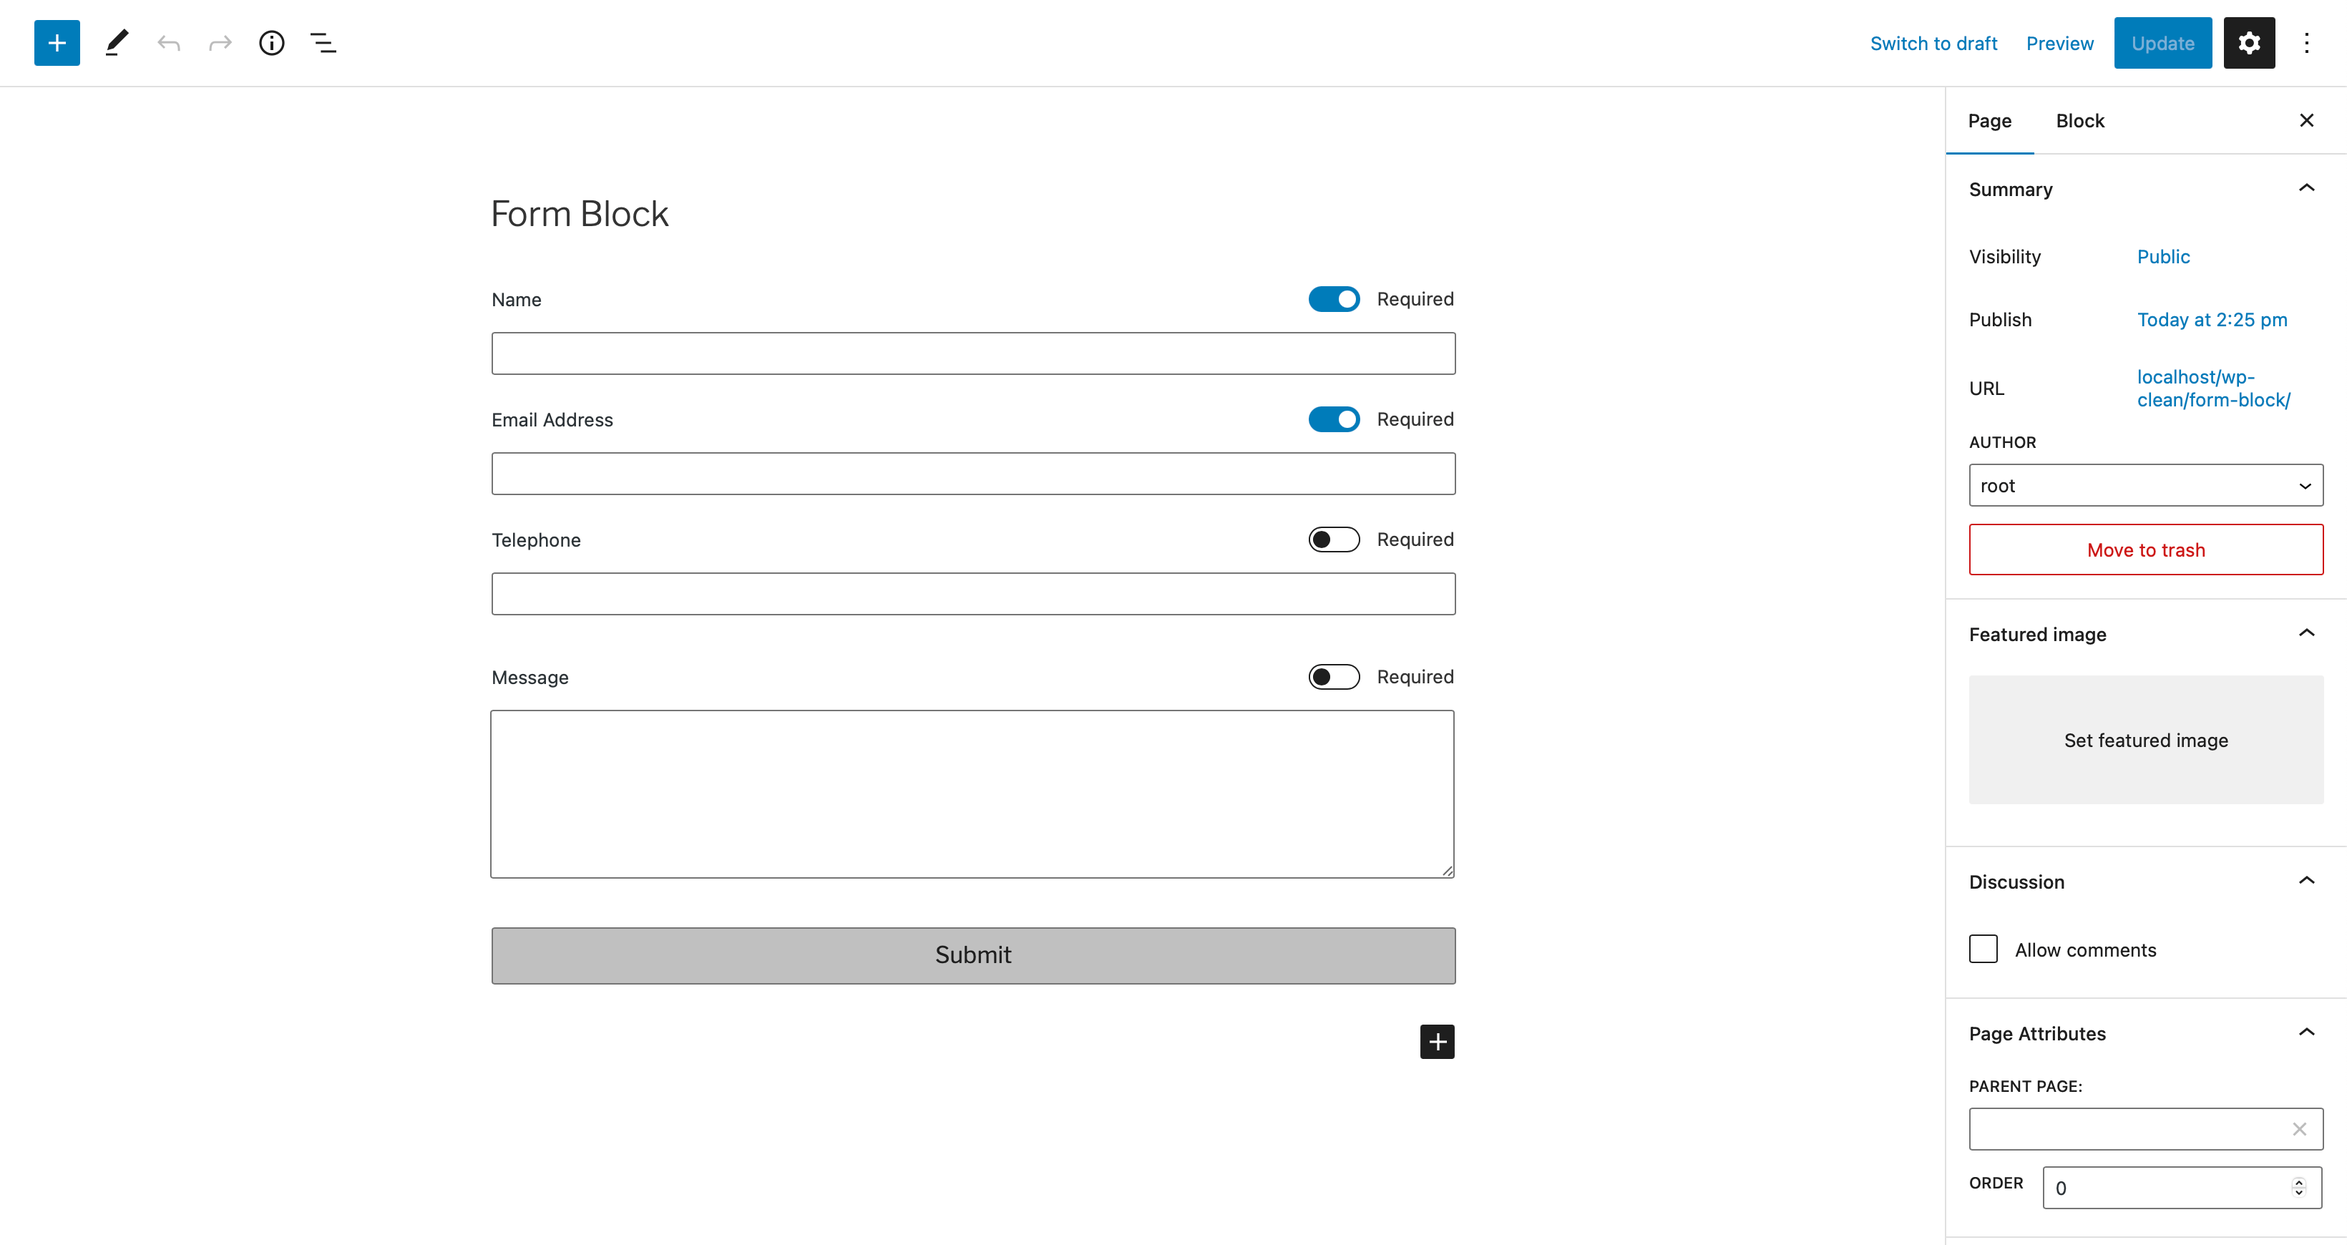
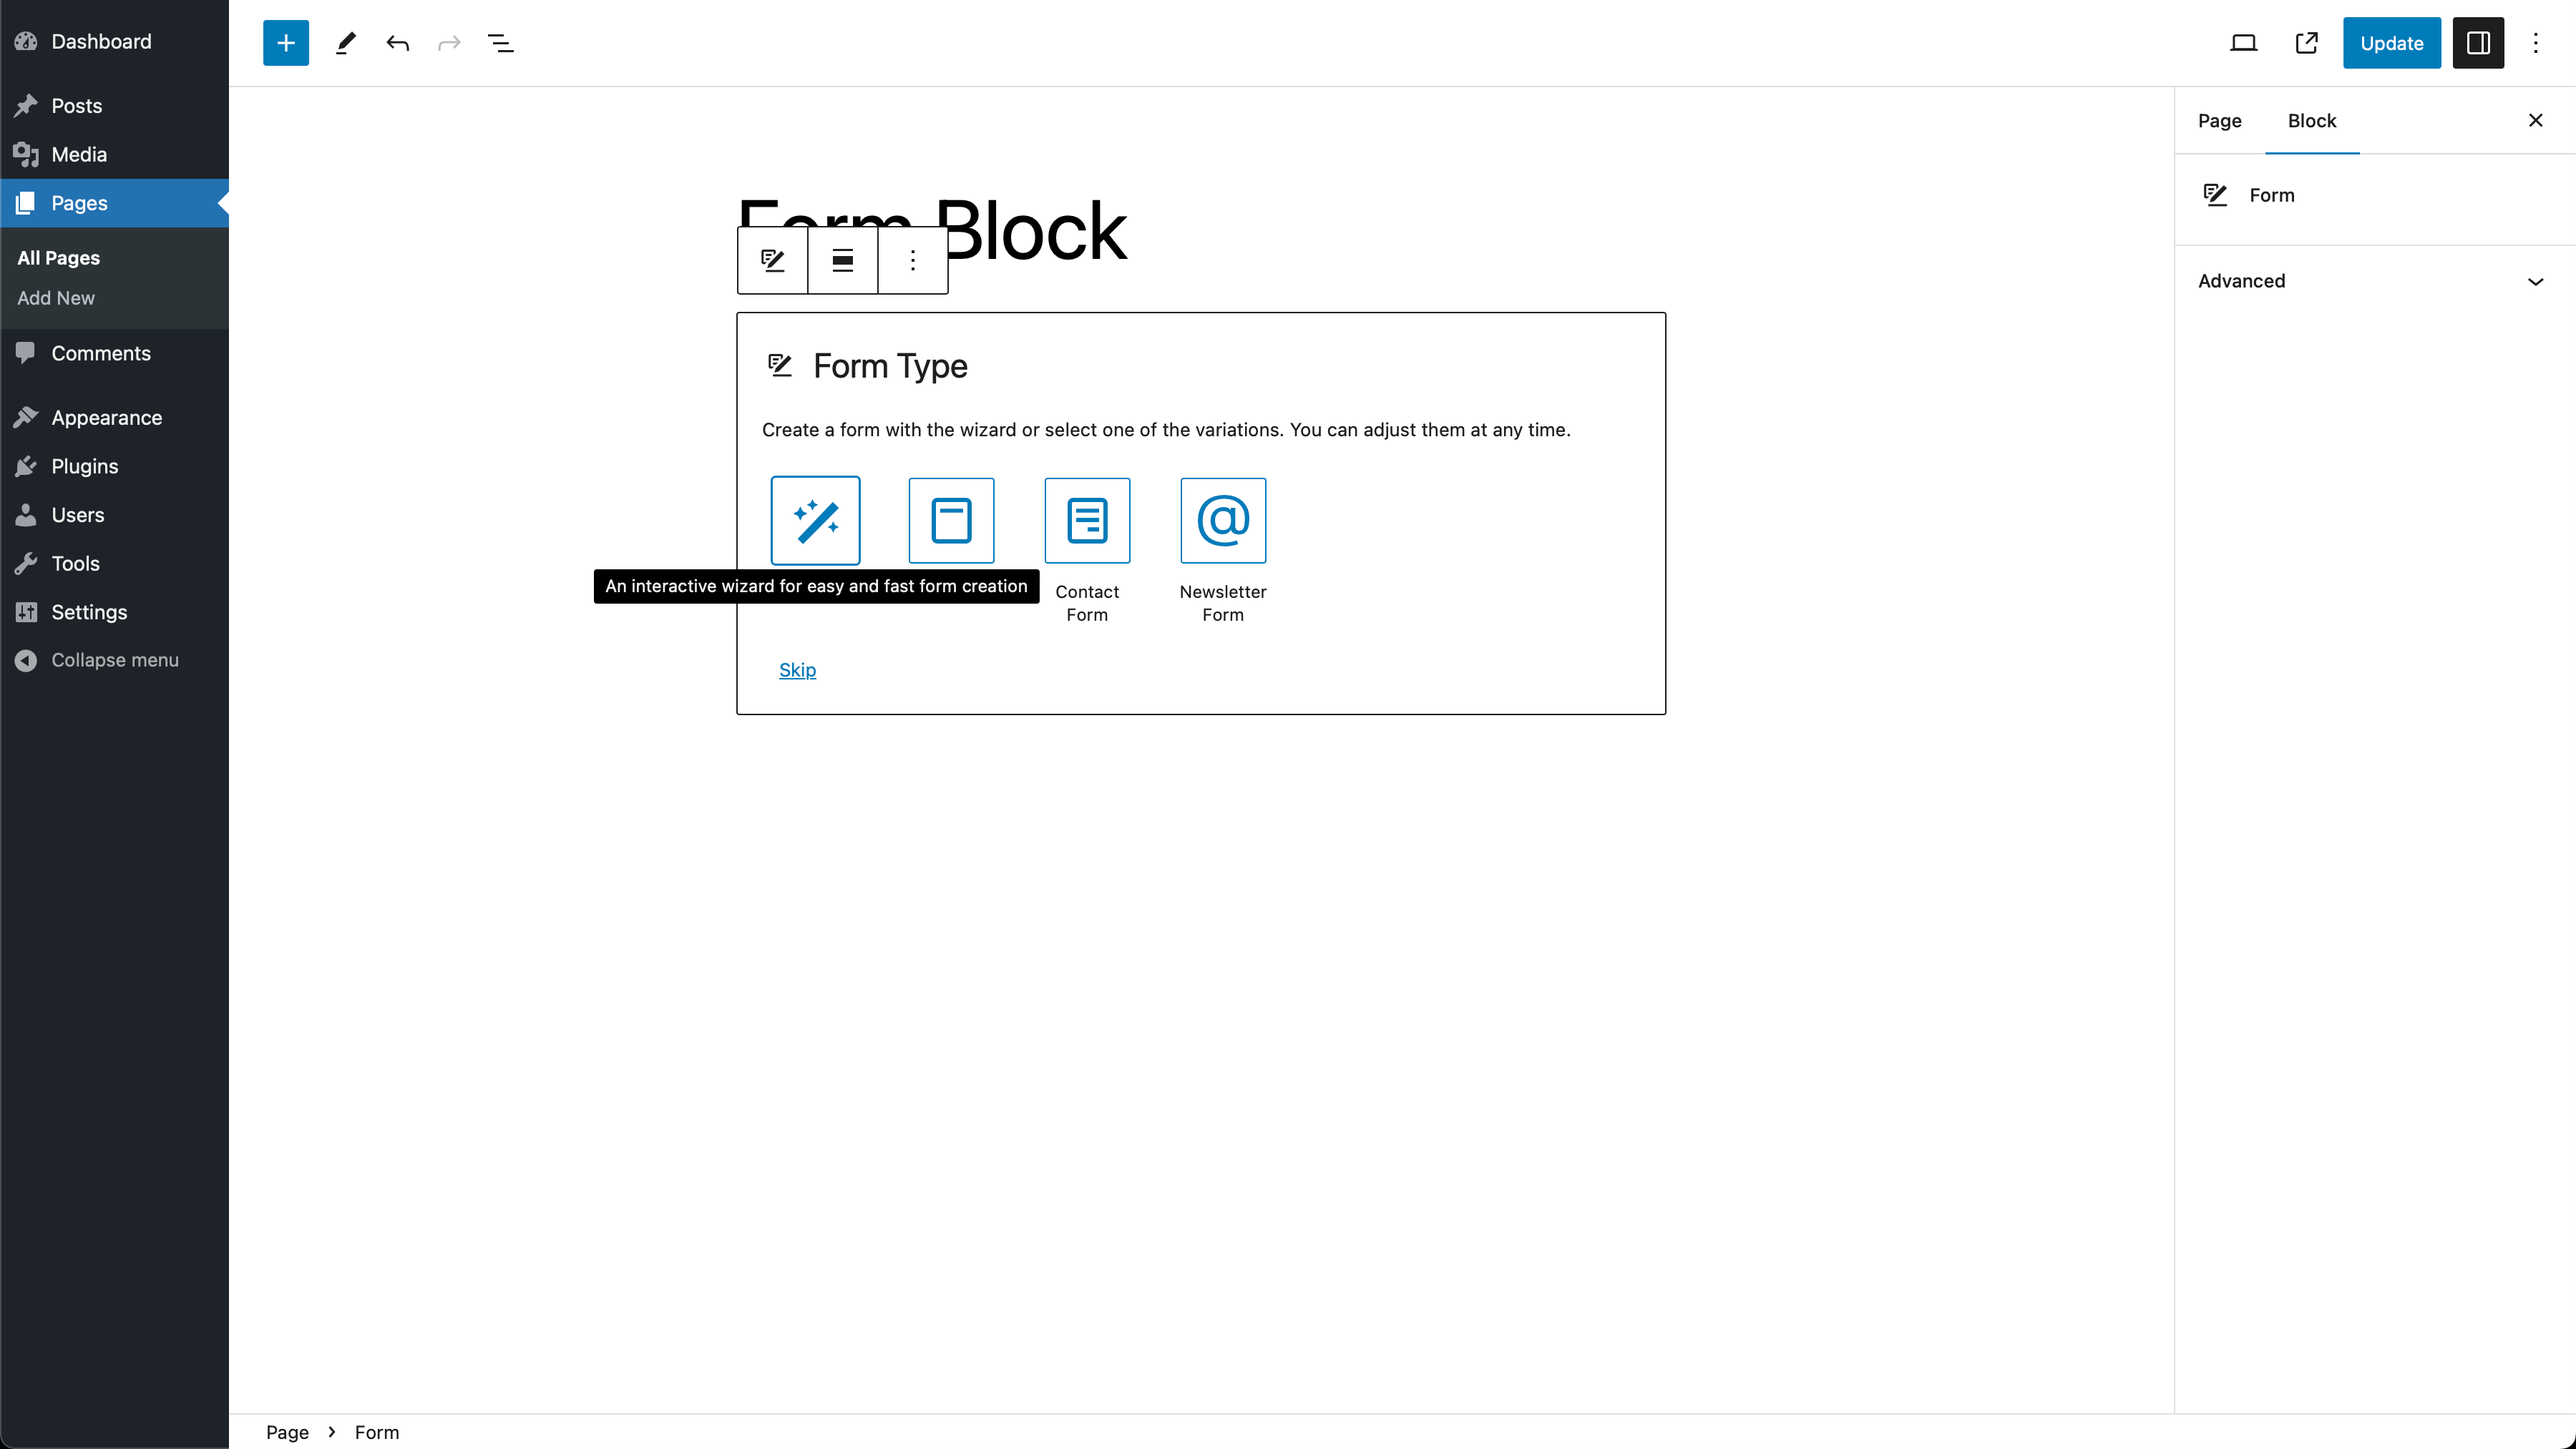
🔖 Prepare version 1.2.0

diff --git a/form-block.php b/form-block.php
@@ -18,13 +18,13 @@ use const WP_PLUGIN_DIR;
 Plugin Name:	Form Block
 Plugin URI:		https://formblock.pro/en/
 Description:	An extensive yet user-friendly form block.
-Version:		1.1.4
+Version:		1.2.0
 Author:			Epiphyt
 Author URI:		https://epiph.yt
 License:		GPL2
 License URI:	https://www.gnu.org/licenses/gpl-2.0.html
+Tags:			form, blocks, block editor, email, contact form
 Text Domain:	form-block
-Domain Path:	/languages
 
 Form Block is free software: you can redistribute it and/or modify
 it under the terms of the GNU General Public License as published by
@@ -43,7 +43,7 @@ along with Form Block. If not, see https://www.gnu.org/licenses/gpl-2.0.html.
 // exit if ABSPATH is not defined
 defined( 'ABSPATH' ) || exit;
 
-define( 'FORM_BLOCK_VERSION', '1.1.4' );
+define( 'FORM_BLOCK_VERSION', '1.2.0' );
 
 if ( ! defined( 'EPI_FORM_BLOCK_BASE' ) ) {
 	define( 'EPI_FORM_BLOCK_BASE', WP_PLUGIN_DIR . '/form-block/' );
@@ -64,7 +64,7 @@ if ( ! \extension_loaded( 'dom' ) ) {
 	function disable_plugin() {
 		?>
 		<div class="notice notice-error">
-			<p><?php \esc_html_e( 'The PHP extension "Document Object Model" (php-dom) is missing. Embed Privacy requires this extension to be installed and enabled. Please ask your hosting provider to install and enable it. Embed Privacy disables itself now. Please re-enable it again if the extension is installed and enabled.', 'embed-privacy' ); ?></p>
+			<p><?php \esc_html_e( 'The PHP extension "Document Object Model" (php-dom) is missing. Embed Privacy requires this extension to be installed and enabled. Please ask your hosting provider to install and enable it. Embed Privacy disables itself now. Please re-enable it again if the extension is installed and enabled.', 'form-block' ); ?></p>
 		</div>
 		<?php
 		\deactivate_plugins( \plugin_basename( __FILE__ ) );

diff --git a/CHANGELOG.md b/CHANGELOG.md
@@ -1,5 +1,16 @@
 # Changelog
 
+## 1.2.0
+* Added: Form creation wizard for even easier form creation
+* Added: Ability to set a custom subject for each form
+* Added: Error message summary if multiple form fields are invalid for screen readers
+* Added: Checks to prohibit multiple form submissions while clicking multiple times on the submit button
+* Added: Check for PHP DOM extension
+* Added: A new filter to add custom controls in the primary panel of the form block
+* Added: A new class for the notice below the field stating how required fields are marked for easier customization
+* Fixed: After re-validating an invalid form, it can now be sent successfully
+* Fixed: Line breaks for checkbox labels in Twenty Twenty-Three
+
 ## 1.1.4
 * Fixed: Sending potentially the wrong checkbox/radio button value if multiple fields have the same name. There is now a new "value" field available for these input types. Please review your forms and adjust the value for your inputs to fix this issue.
 

diff --git a/README.md b/README.md
@@ -23,6 +23,12 @@ WordPress: 6.0
 
 The settings can be found in **Settings > Writing > Form Block**.
 
+### Where will submitted forms be sent to?
+
+All submitted forms will be sent to the administration email address you have set in the settings (**Settings > General > Administration Email Address**).
+
+If you want to use another email address as recipient, you can use the filter `form_block_recipients` to change the recipient email address.
+
 ### Is there a Pro version?
 
 Yes, there is a Pro version with enhanced functionality. Lean more at https://formblock.pro/en/.

diff --git a/SECURITY.md b/SECURITY.md
@@ -6,8 +6,8 @@ We usually only support the latest major version.
 
 | Version | Supported          |
 | ------- | ------------------ |
-| 1.1.x   | :white_check_mark: |
-| < 1.1   | :x:                |
+| 1.2.x   | :white_check_mark: |
+| < 1.2   | :x:                |
 
 ## Reporting a Vulnerability
 
